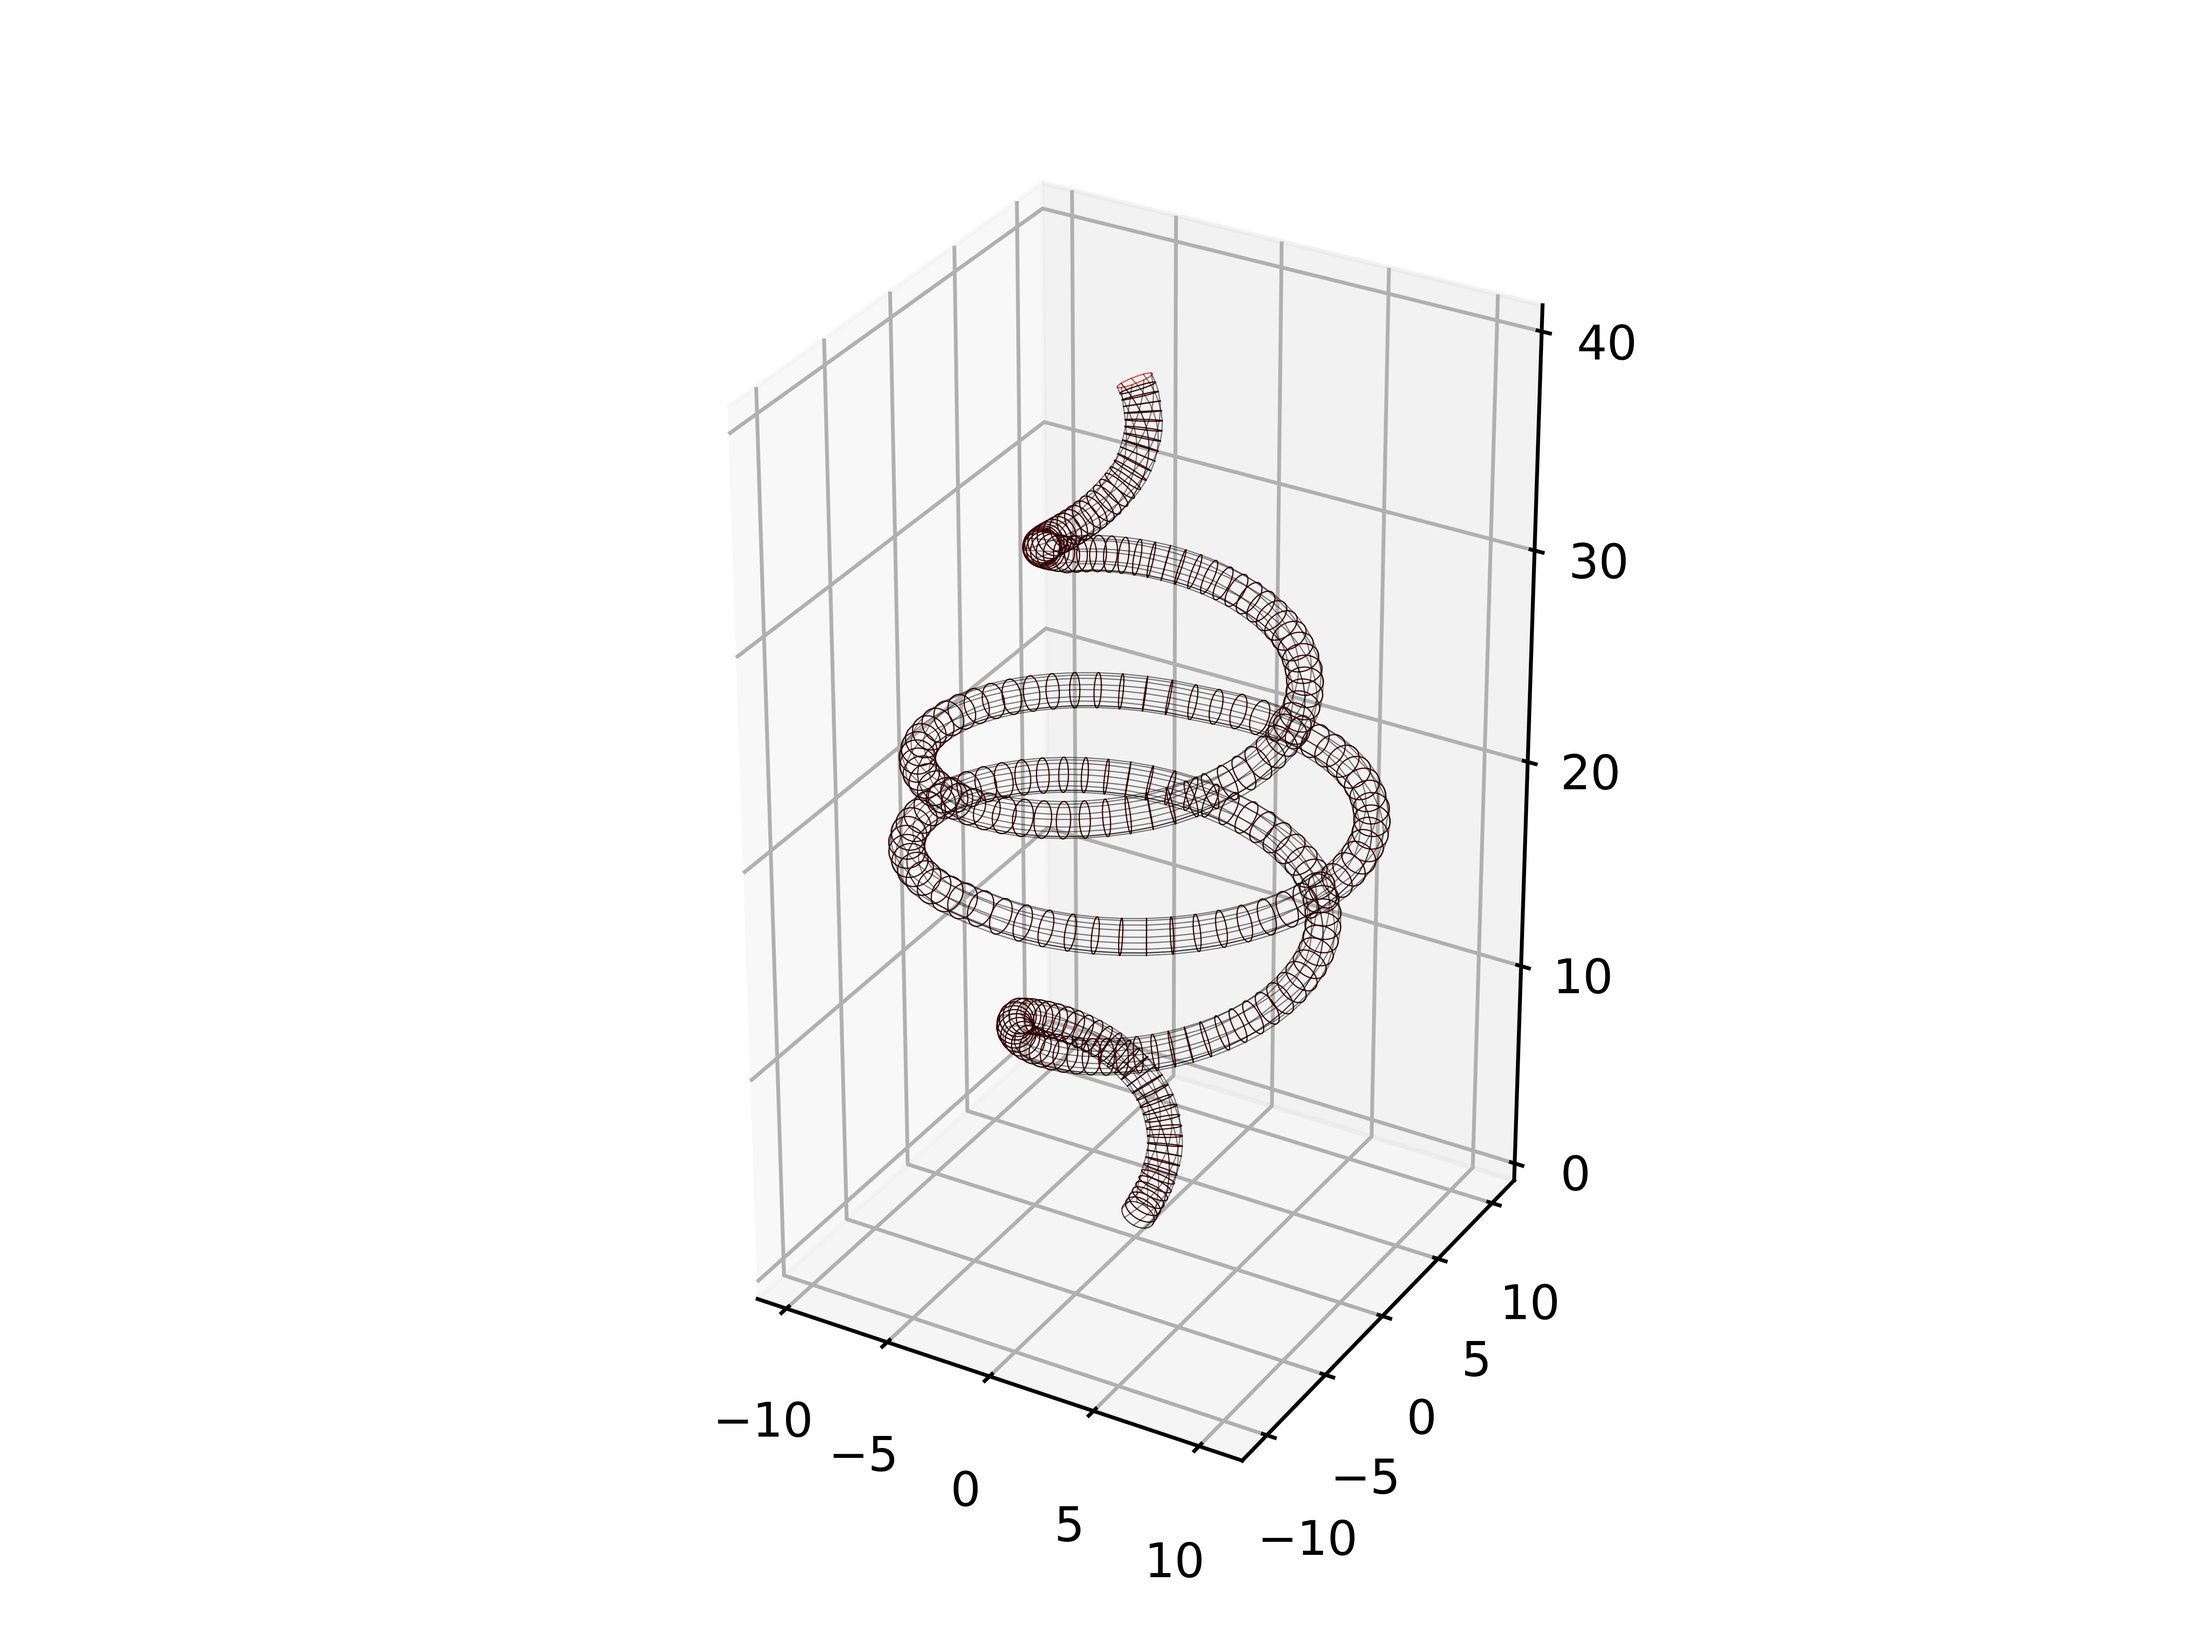
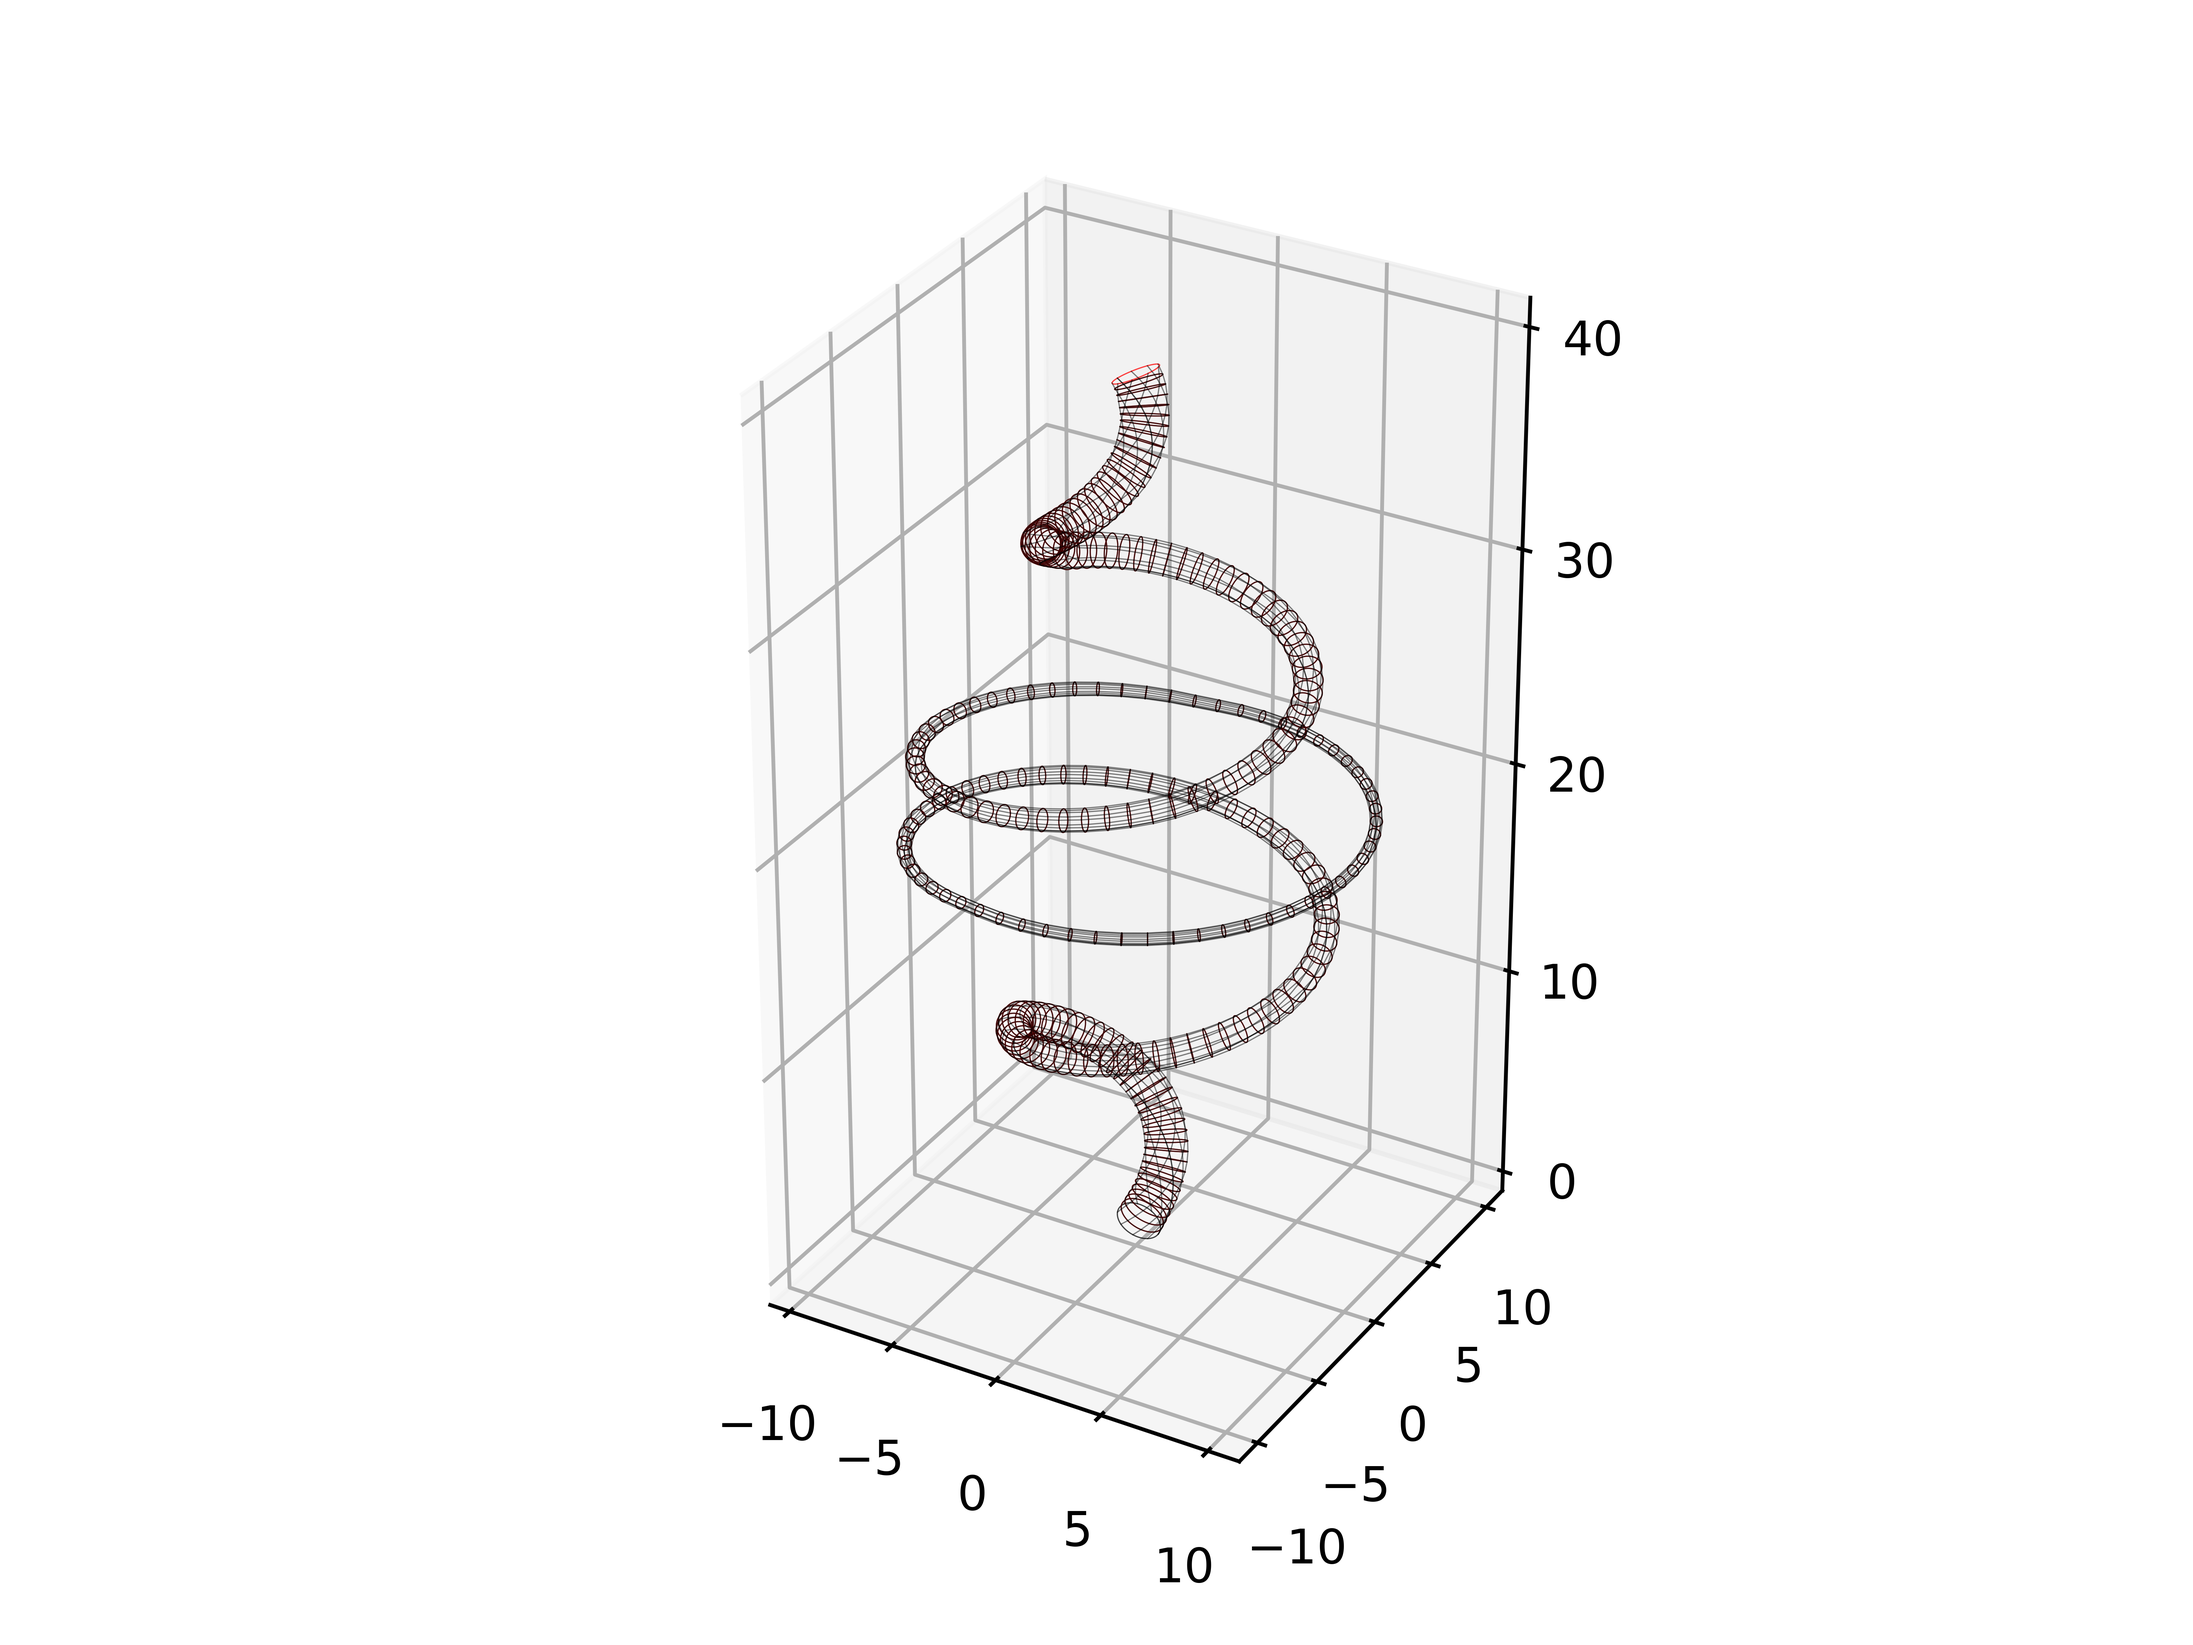
main: added radius function

diff --git a/mesh_generation/coil_cylindrical.py b/mesh_generation/coil_cylindrical.py
@@ -1,9 +1,9 @@
 from re import A, I
 import numpy as np
 from scipy.interpolate import interp1d
-from classy_examples.classy_blocks.classes.primitives import Edge
-from classy_examples.classy_blocks.classes.block import Block
-from classy_examples.classy_blocks.classes.mesh import Mesh
+from classy_blocks.classes.primitives import Edge
+from classy_blocks.classes.block import Block
+from classy_blocks.classes.mesh import Mesh
 import shutil
 import os
 import matplotlib.pyplot as plt
@@ -63,22 +63,22 @@ def angle_between(v1, v2):
     return np.arccos(np.clip(np.dot(v1_u, v2_u), -1.0, 1.0))
 
 
-def create_circle(d1, d2, rad):
+def create_circle(d1, d2):
     # takes 2 cylindrical coordinates
     # and rotates the location of the second to be orthogonal
     # to the vector between the centre of the two circles
 
     # circle_test.py provides an example
-    r1, t1, z1 = d1
-    r2, t2, z2 = d2
+    r1, t1, z1,rad1 = d1
+    r2, t2, z2,rad2 = d2
     c_x1, c_y1, c_z1 = cylindrical_convert(r1, t1, z1)
     c_x2, c_y2, c_z2 = cylindrical_convert(r2, t2, z2)
     alpha = np.linspace(0, 2 * np.pi, 100)
-    y1 = rad * np.cos(alpha) + c_y1
-    x1 = rad * np.sin(alpha) + c_x1
+    y1 = rad1 * np.cos(alpha) + c_y1
+    x1 = rad1 * np.sin(alpha) + c_x1
     z1 = [c_z1 for i in range(len(x1))]
-    y2 = rad * np.cos(alpha) + c_y2
-    x2 = rad * np.sin(alpha) + c_x2
+    y2 = rad2 * np.cos(alpha) + c_y2
+    x2 = rad2 * np.sin(alpha) + c_x2
     z2 = [c_z2 for i in range(len(x2))]
     c1 = np.mean([x1, y1, z1], axis=1)
     c2 = np.mean([x2, y2, z2], axis=1)
@@ -122,10 +122,8 @@ def create_mesh(data, path):
     # factor to interpolate between control points
     interpolation_factor = data['factor']  # interpolate 10 times the points between
 
-    keys = ["rho", "theta", "z"]
-    tube_rad = data["tube_rad"]
+    keys = ["rho", "theta", "z",'tube_rad']
 
- 
 
     # do interpolation between points
     vals = {}
@@ -144,16 +142,14 @@ def create_mesh(data, path):
         # get proceeding circle (as x,y,z samples)
         x2, y2, z2 = create_circle(
         [data[keys[i]][p-1] for i in range(len(keys))],
-        [data[keys[i]][p] for i in range(len(keys))],
-        tube_rad,
+        [data[keys[i]][p] for i in range(len(keys))]
         )
         # get next circle (as x,y,z samples)
 
 
         x1, y1, z1 = create_circle(
         [data[keys[i]][p] for i in range(len(keys))],
-        [data[keys[i]][p+1] for i in range(len(keys))],
-        tube_rad,
+        [data[keys[i]][p+1] for i in range(len(keys))]
         )
         # plot for reference
         ax.plot3D(x2, y2, z2, c="k", alpha=0.75, lw=0.25)
@@ -281,7 +277,7 @@ data["rho"] = [
 ]
 data["theta"] = np.linspace(0, N, n)
 data["z"] = [0,10,15,20,20,25,30,40]
-data["tube_rad"] = 0.75
+data["tube_rad"] = [1,0.75,0.5,0.25,0.25,0.5,0.75,1]
 data['factor'] = f
 
 # create mesh from cylindrical coordinates

diff --git a/mesh_generation/README.md b/mesh_generation/README.md
@@ -21,18 +21,8 @@ This folder contains Python tools to create a number of different OpenFOAM meshe
 
 ```coil_basic.py``` contains a function that given a coil radius, pipe radius, number of coils, and overall coil height, will return a blockMesh folder containing the mesh. An O-grid topology is used to create the coil sections. 
 
-
-```coil_cylindrical.py``` contains a function that given cylindrical coordinates will return a blockMesh folder containing the mesh for a general helix around those coordinates. This function interpolates between cylindrical coordinates by a given factor to produce the complete curve. The rotation of each circle defining the cross section of this curve is defined by ensuring the circle is orthogonal to the vector between the centre of the previous circle and the current circle. ```circle_test.py``` provides an example of this calculation.
-
-
-<a>
-<img src="https://github.com/OptiMaL-PSE-Lab/pulsed-reactor-optimisation/blob/96d12e1a3f5d7a5a943b59d68e402826464d77f8/mesh_generation/output_images/pre_render_cylindrical.png" alt="pre_render" title="pre_render" align="left" height="250" />
-</a>
-
-<a>
-<img src="https://github.com/OptiMaL-PSE-Lab/pulsed-reactor-optimisation/blob/96d12e1a3f5d7a5a943b59d68e402826464d77f8/mesh_generation/output_images/coil_cylinder_render.png" alt="pre_render" title="pre_render" align="right" height="250" />
-</a> 
-
+```coil_cylindrical.py``` contains a function that given cylindrical coordinates, and tube radius values will return a blockMesh folder containing the mesh for a general helix.
+This function interpolates between given values by a given factor to produce the complete set.
 
 A preview of the mesh named ```pre_render.png```is plotted using Matplotlib as the mesh is being constructed for debugging purposes.
 
